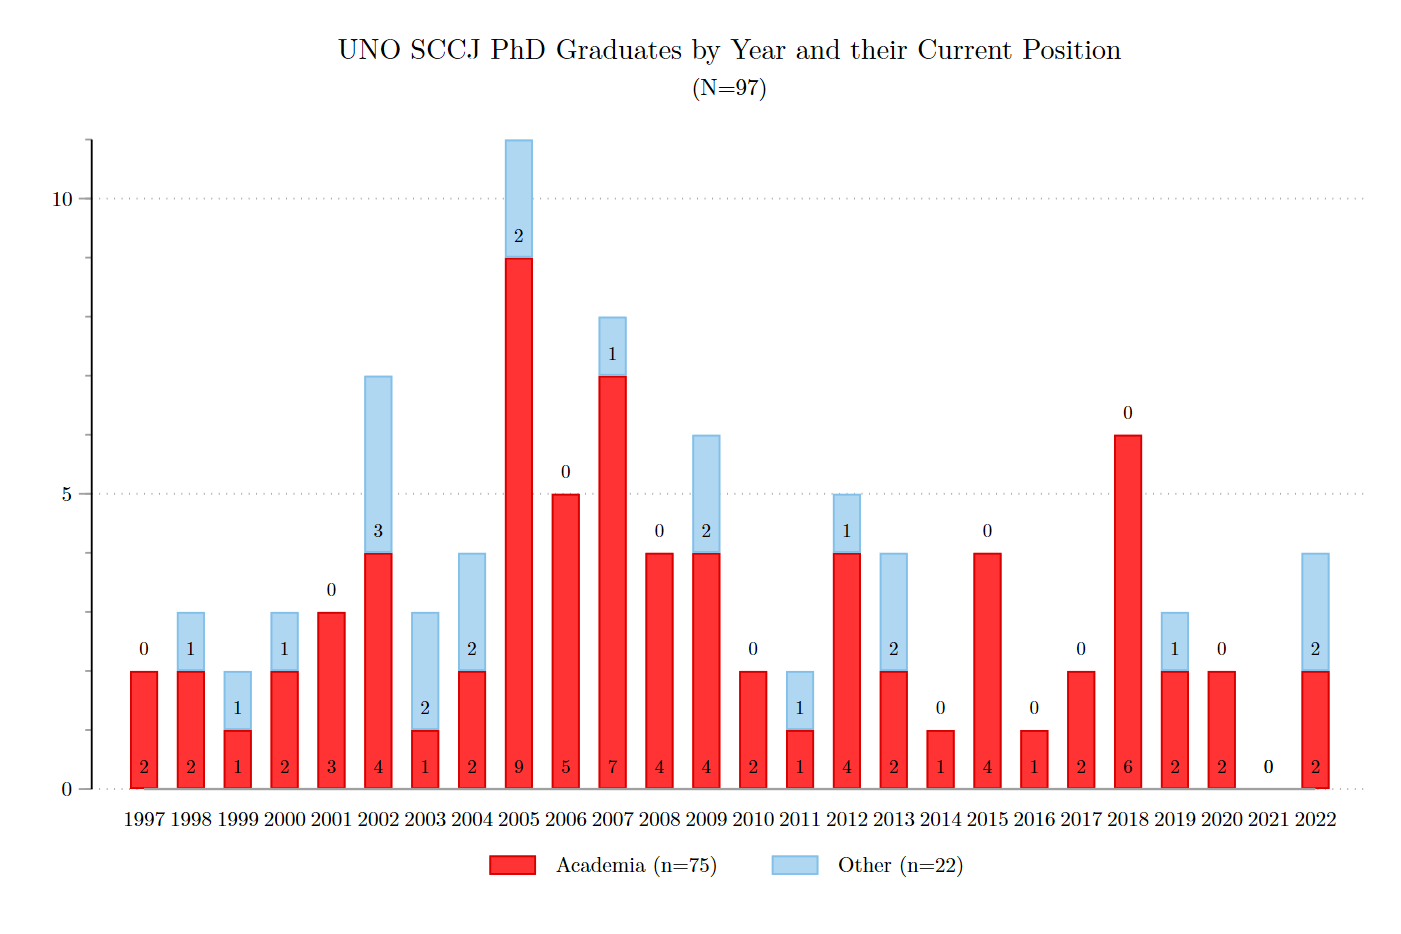
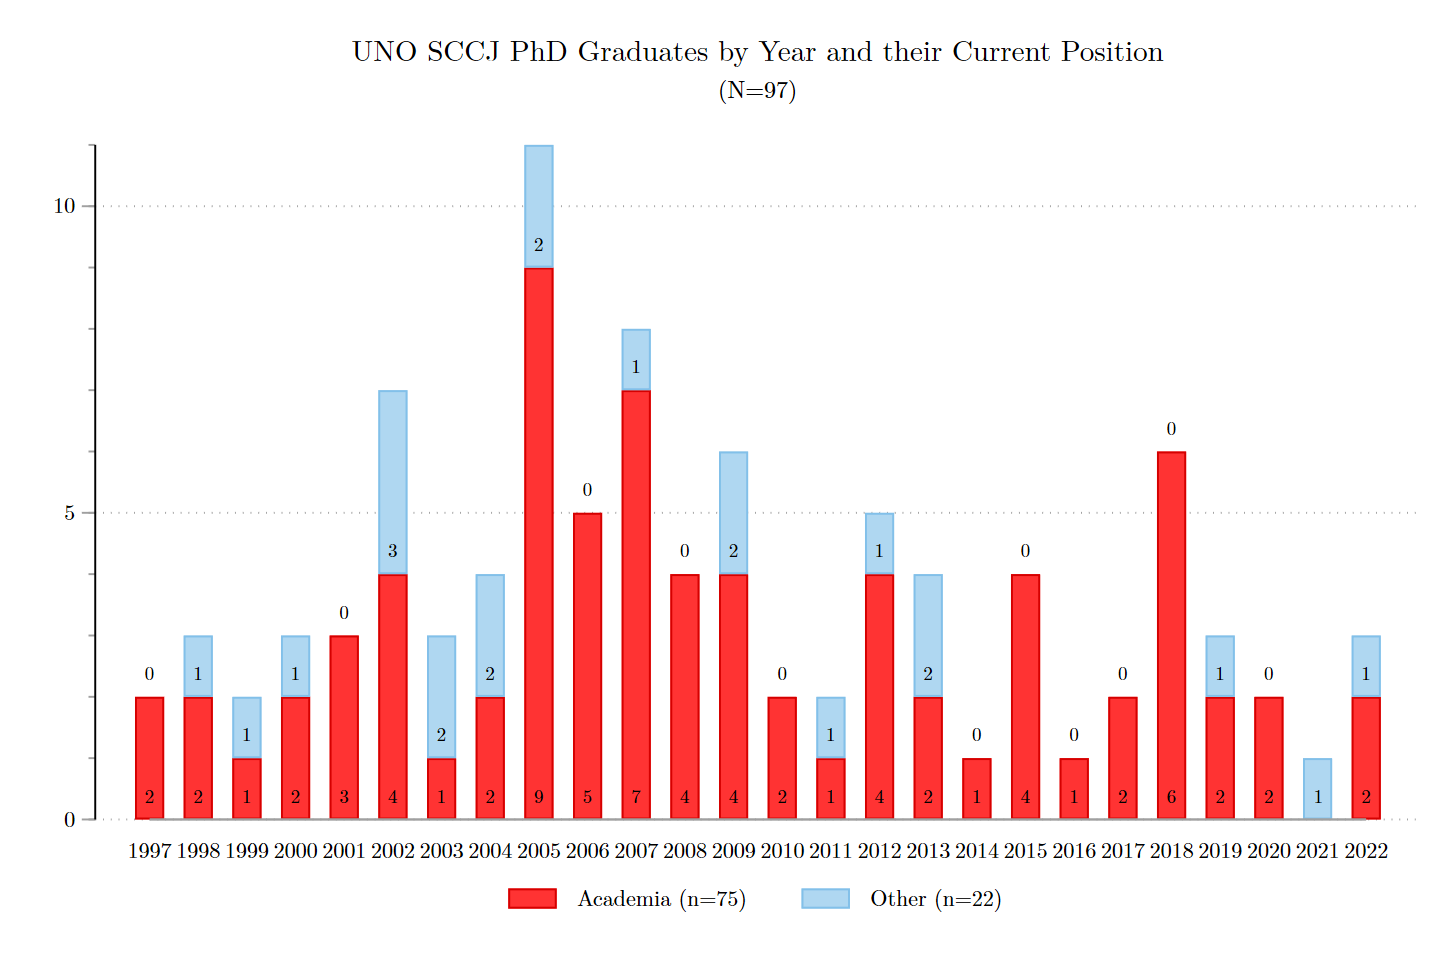
fix julie's graduation date and link to the webpage with everyone's name

diff --git a/content/post/post22-sccj-alumni/index.md b/content/post/post22-sccj-alumni/index.md
@@ -20,7 +20,7 @@ url_pdf: ""
 
 A few days ago Andy Wheeler [posted](https://andrewpwheeler.com/2023/01/08/where-are-they-now-job-outcomes-for-recent-suny-crim-phds/) about career outcomes for people who earned their PhD in Criminal Justice from SUNY Albany between 2010 and 2020. He found that roughly 50% of those who graduated during this period are currently working as a university professor. 
 
-It made me curious about where all the UNO graduates have ended up.[^1] As of today, 97 people have earned their PhD in Criminology and Criminal Justice from the University of Nebraska Omaha. That works out to roughly 3 or 4 per year since 1997, when we hooded our first two graduates. They were [Phil Ni He](https://www.unomaha.edu/college-of-public-affairs-and-community-service/news/2023/01/ni-phil-he-joins-uno-as-chief-acedemic-officer.php) (who just returned to UNO as our new Senior Vice Chancellor) and [Chuck Katz](https://search.asu.edu/profile/24209) (professor, Arizona State). The most recent was my former student, [Brandon Tregle](https://hcap.utsa.edu/directory/brandon-tregle/) (AP, University of Texas at San Antonio). 
+It made me curious about where all the UNO graduates have ended up.[^1] As of today, [97 people](https://www.unomaha.edu/college-of-public-affairs-and-community-service/criminology-and-criminal-justice/alumni/phd-alumni.php) have earned their PhD in Criminology and Criminal Justice from the University of Nebraska Omaha. That works out to roughly 3 or 4 per year since 1997, when we hooded our first two graduates. They were [Phil Ni He](https://www.unomaha.edu/college-of-public-affairs-and-community-service/news/2023/01/ni-phil-he-joins-uno-as-chief-acedemic-officer.php) (who just returned to UNO as our new Senior Vice Chancellor) and [Chuck Katz](https://search.asu.edu/profile/24209) (professor, Arizona State). The most recent was my former student, [Brandon Tregle](https://hcap.utsa.edu/directory/brandon-tregle/) (AP, University of Texas at San Antonio). 
 
 ![grads](uno-grads.png)
 
